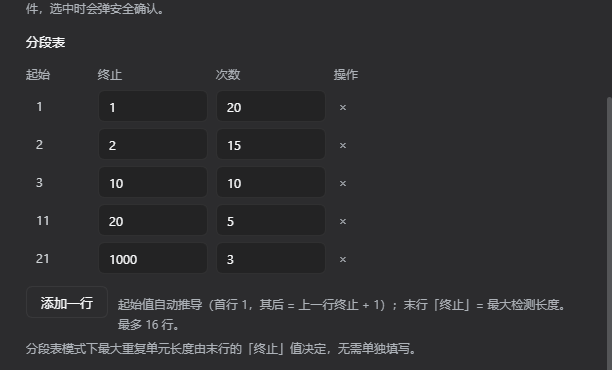
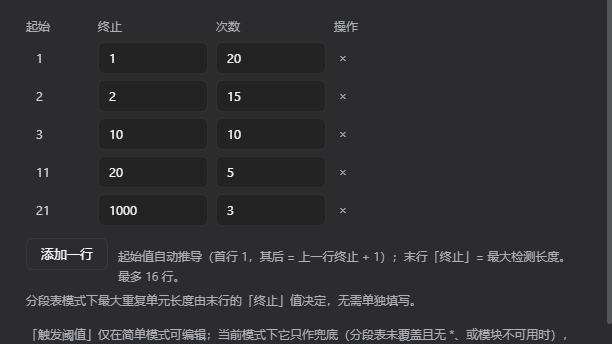
docs(screenshots): re-shoot the settings screens so they show 1.9.2 defaults (multiplier 4, window 12000)

diff --git a/CHANGELOG.md b/CHANGELOG.md
@@ -2,6 +2,14 @@
 
 本文件遵循 [Keep a Changelog](https://keepachangelog.com/zh-CN/1.1.0/)，版本号遵循 [SemVer](https://semver.org/lang/zh-CN/)。
 
+## [未发布]
+
+### Changed
+
+- **重拍商店截图**（`screenshots/03`、`04`、`05`）：1.9.2 生效后设置页的「代码内阈值倍数」显示为 **4**（原图为 3）、
+  状态行显示 `构建 1.9.2`（原图为 1.9.1）、派生窗口 12000。`01`/`02`/`06` 不涉及版本号与默认值，保持不变。
+  截图仍按原规则打码（只截设置面板，不含工作区路径、会话名、余额与侧栏）。
+
 ## [1.9.2] - 2026-10-16
 
 ### Changed
